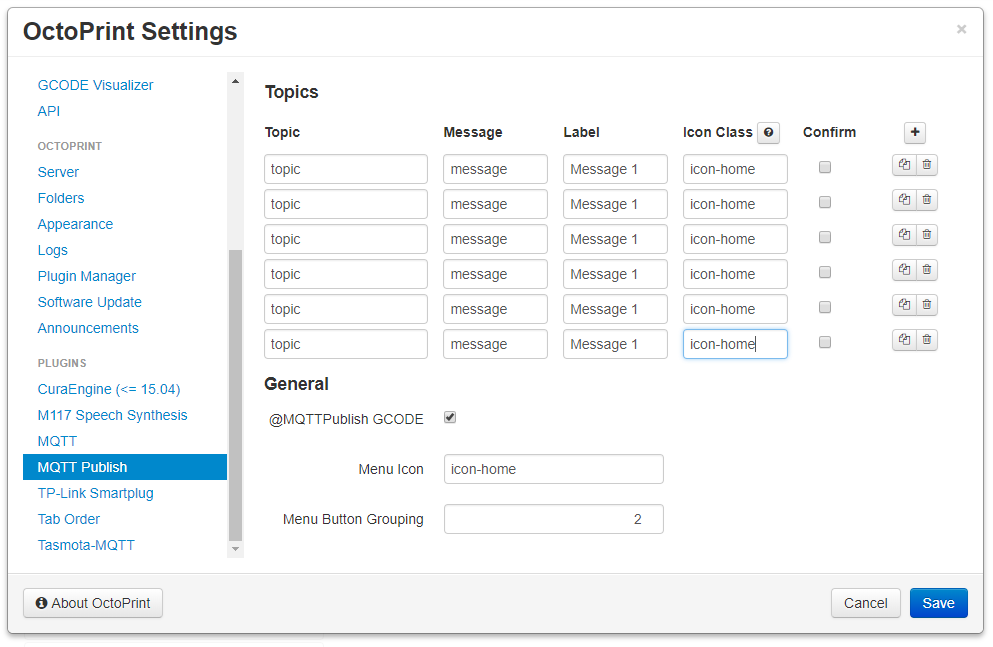
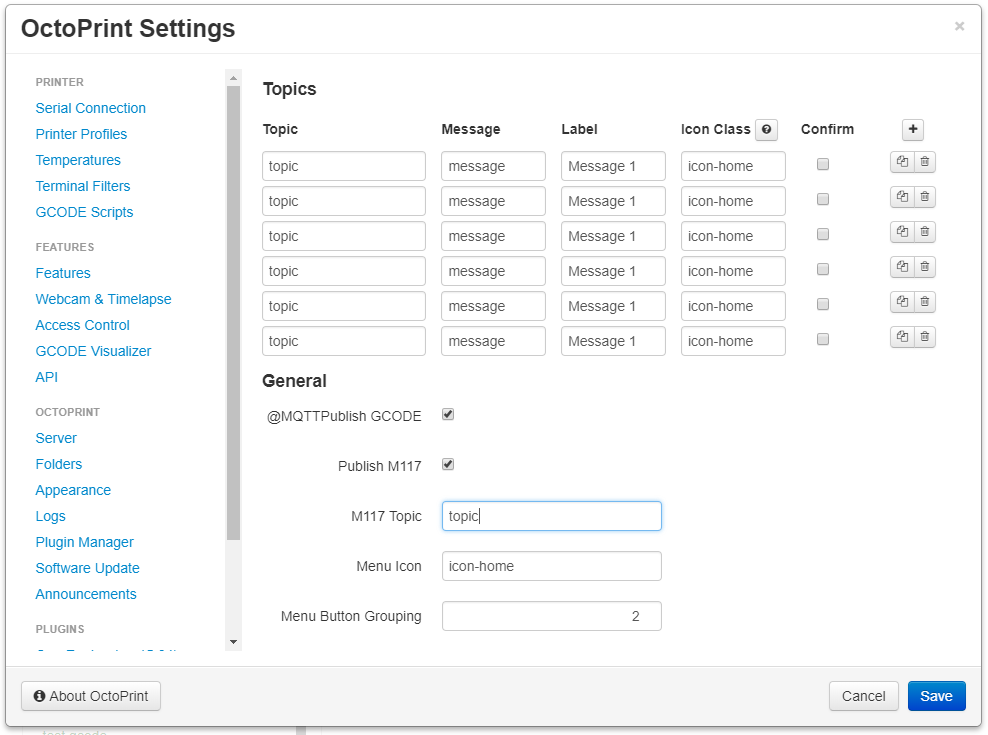
0.4.0

diff --git a/setup.py b/setup.py
@@ -14,7 +14,7 @@ plugin_package = "octoprint_mqttpublish"
 plugin_name = "OctoPrint-MQTTPublish"
 
 # The plugin's version. Can be overwritten within OctoPrint's internal data via __plugin_version__ in the plugin module
-plugin_version = "0.3.1"
+plugin_version = "0.4.0"
 
 # The plugin's description. Can be overwritten within OctoPrint's internal data via __plugin_description__ in the plugin
 # module

diff --git a/README.md b/README.md
@@ -29,6 +29,7 @@ Once the MQTT plugin and this plugin are installed, configure the MQTT plugin fo
   - Confirm: show a confirmation prompt on sending message.
 - General
   - @MQTTPublish GCODE: If enabled sending **@MQTTPublish topic message** GCODE command will publish the given message to given topic.
+  - Publish M117: If enabled will send any M117 messages to configured M117 Topic field.
   - Menu Icon: icon class name from [fontawesome](http://fontawesome.io/3.2.1/cheatsheet/) to show in navbar.
   - Menu Button Grouping: Group buttons by this many and then start a new row in dropdown menu.
 
